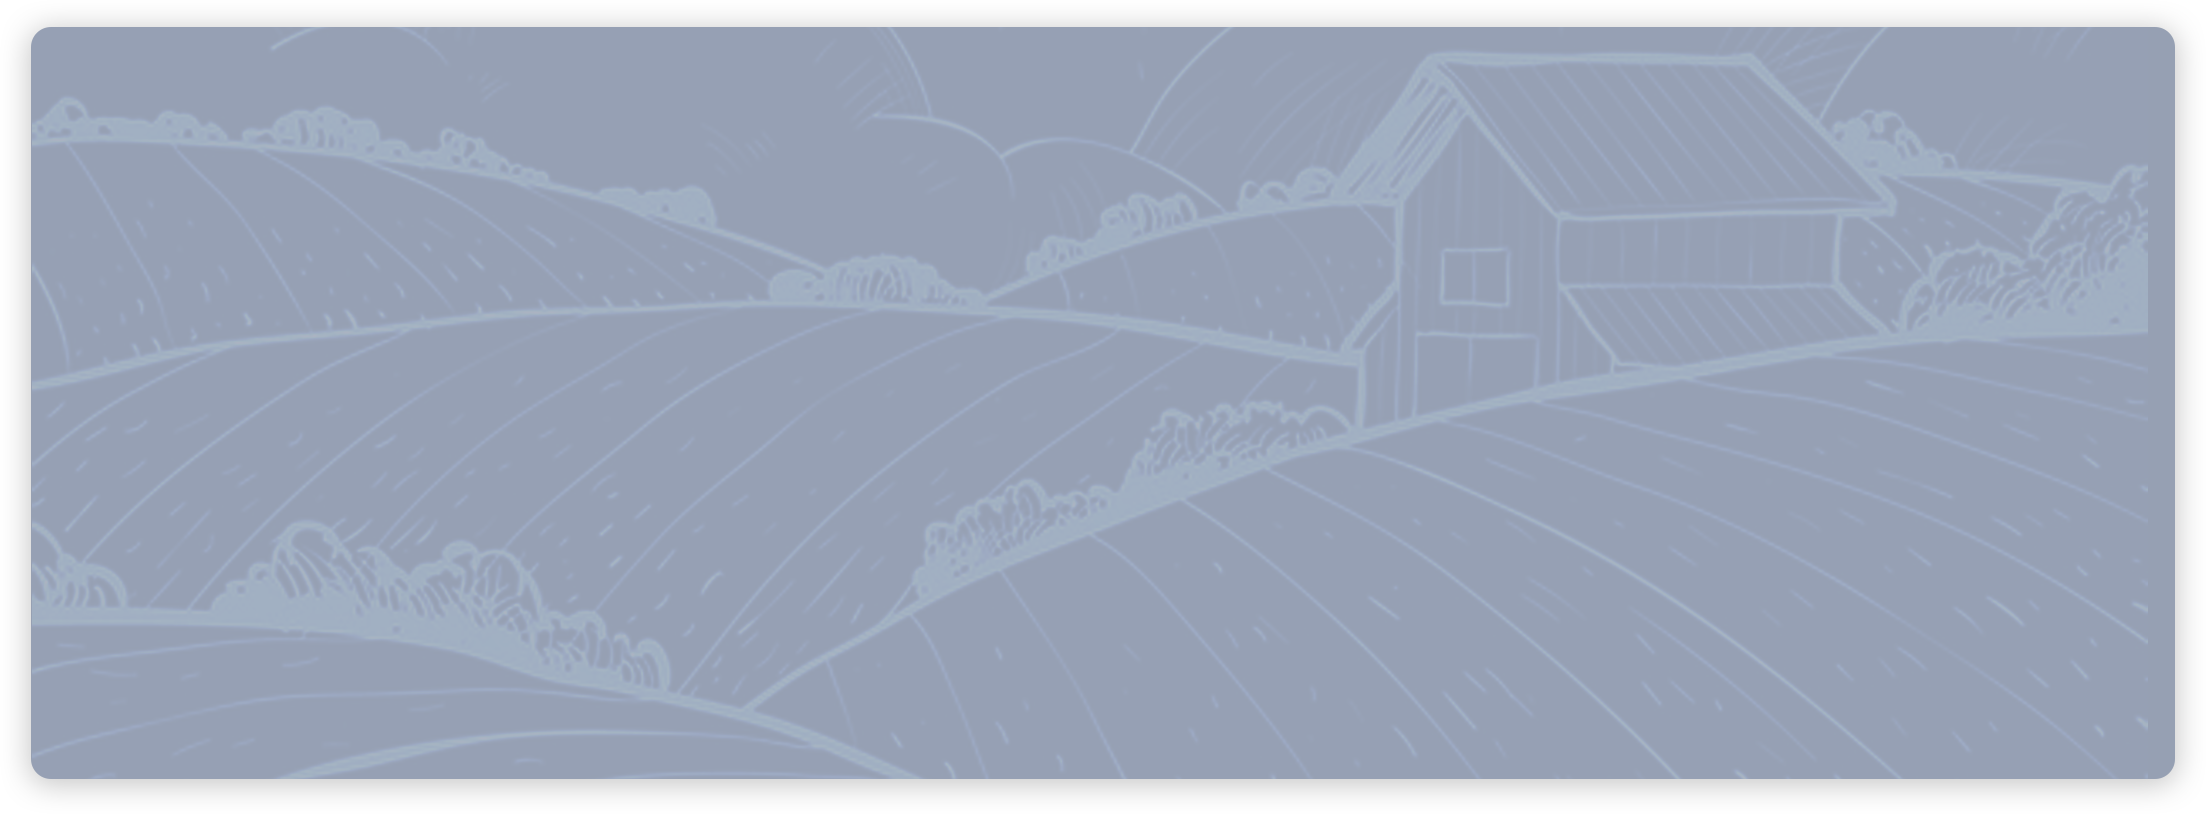
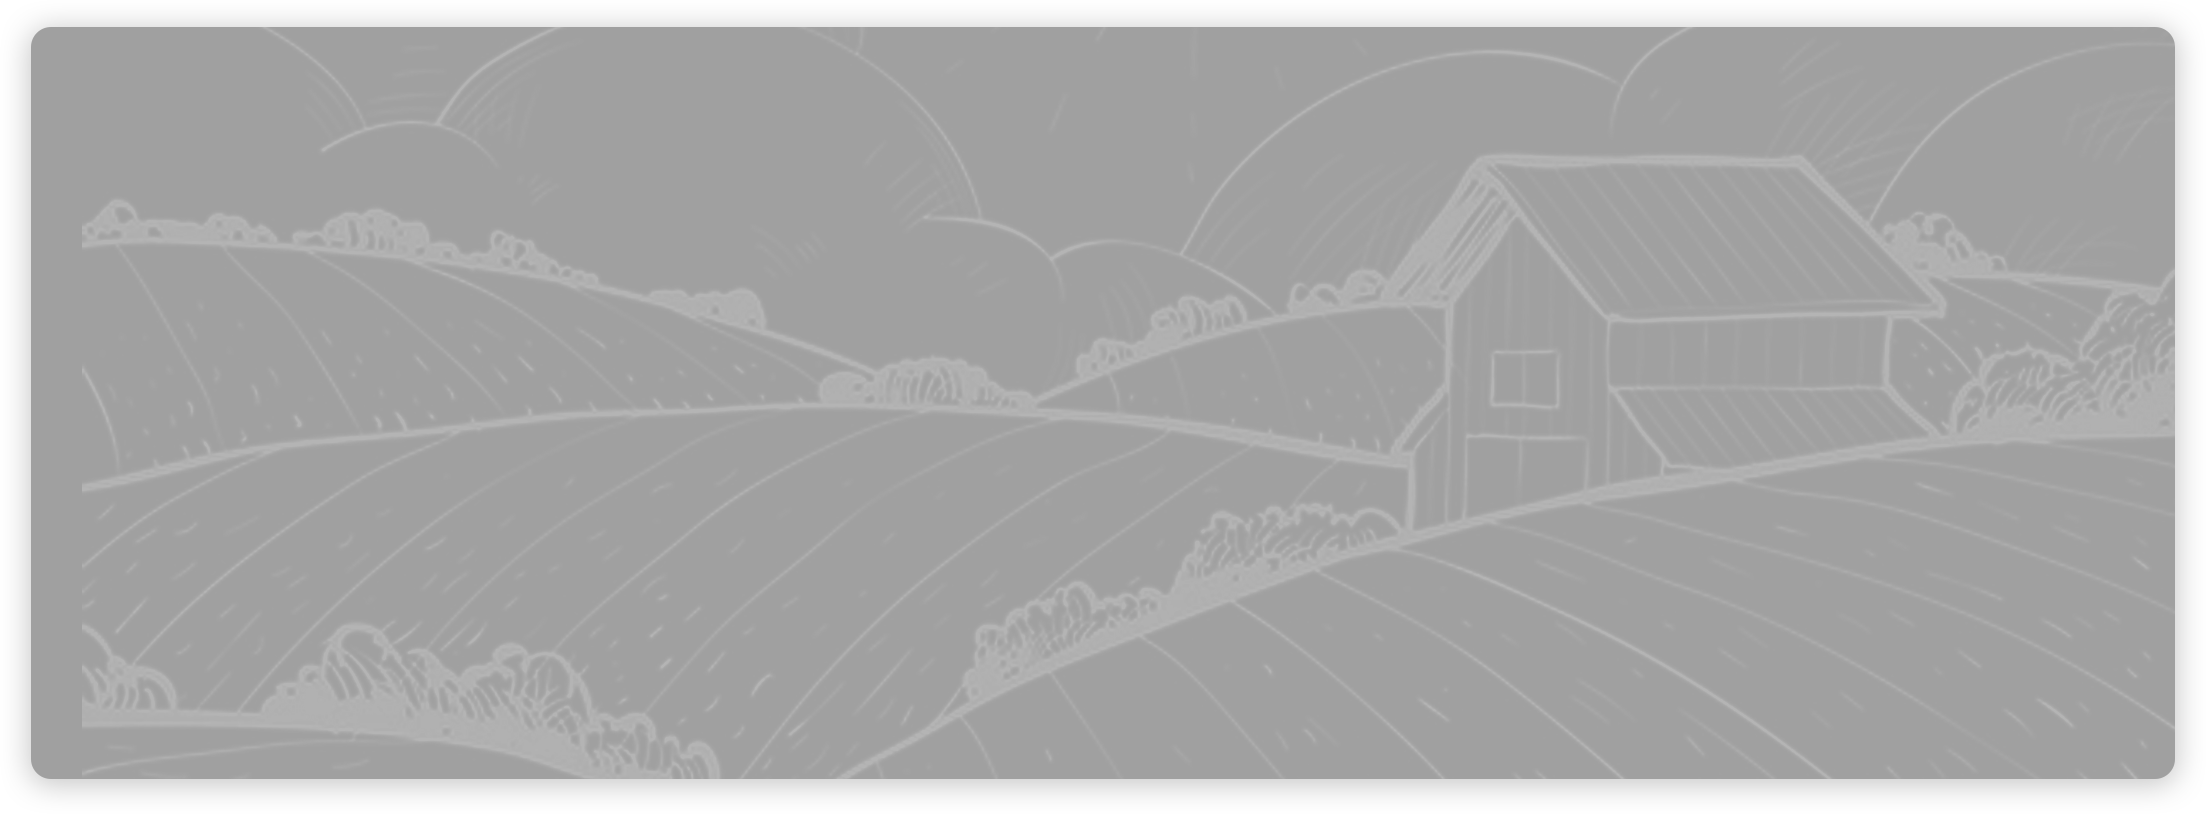
Cross

diff --git a/omni-dark/src/containers/DexHomeBody.js b/omni-dark/src/containers/DexHomeBody.js
@@ -24,6 +24,8 @@ import { ThemeContext } from "../theme/ThemeContext";
 import Button from '@mui/material/Button';
 import "react-responsive-carousel/lib/styles/carousel.min.css";
 
+import dotimg from "../assets/images/page1/dots-bg.png"
+
 const DexHomeBody = () => {
     const theme1 = useContext(ThemeContext);
     const darkMode = theme1.state.darkMode;
@@ -84,7 +86,7 @@ const DexHomeBody = () => {
                                     <Button variant="contained" className={darkMode ? 'launchBtn btn-md-lg d-flex' : 'launchBtnLight btn-md-lg d-flex'} endIcon={<LockIcon />}>Locked</Button>
                                 </div>
                                 <div>
-                                    <Button className={darkMode ? 'unlockbtn_gra btn-md-lg d-flex' : 'unlockbtn_graLight btn-md-lg d-flex'} endIcon={<ArrowRightAltIcon fontSize='30px'/>}>
+                                    <Button className={darkMode ? 'unlockbtn_gra btn-md-lg d-flex' : 'unlockbtn_graLight btn-md-lg d-flex'} endIcon={<ArrowRightAltIcon className='wallet_arrow' />}>
                                         Unlock Wallet                                        
                                     </Button>
                                 </div>
@@ -93,10 +95,10 @@ const DexHomeBody = () => {
                     </div>
                 </div>
                 <div className="col-md-12 mt-5">
-                    <img src={fadedCube} className="cubeImage2" />
-                    <div className={darkMode? 'rect3 d-flex flex-column justify-content-center justify-content-md-start py-5': 'rect3Light d-flex flex-column justify-content-center justify-content-md-start py-5'}>
-                        <div className="text-center text-md-left">
-                            <h2 className="cFont"><span className={darkMode?'color2':'color2Light'}>HOT</span> FARMS</h2>
+                    <img src={cube} className="cubeImage2" />
+                    <div className={darkMode? 'rect3 d-flex flex-column justify-content-center justify-content-md-start': 'rect3Light d-flex flex-column justify-content-center justify-content-md-start'}>
+                        <div className={darkMode ? 'color2 text-center text-md-left' : 'color2Light text-center text-md-left'}>
+                            <h2><span className={darkMode ?'cFont':'cFontLight'}>HOT</span> FARMS</h2>
                             <h6 className="">Vision is the ultimate exchange protocol</h6>
                         </div>
                         <div className="d-flex flex-column flex-md-row justify-content-start">
@@ -122,11 +124,11 @@ const DexHomeBody = () => {
                     </div>
                 </div>
                 <div className="col-md-12 mt-5 position-relative">
-                    <img src={cube} className="cubeImage1" />
+                    <img src={cube} className="cubeImage4" />
                     <div className={darkMode? 'rect4 d-flex flex-column justify-content-center justify-content-md-start py-5':'rect4Light d-flex flex-column justify-content-center justify-content-md-start py-5'}>
-                        <div className="text-center text-md-left">
-                            <h2 className="cFont"><span className={darkMode?'color2':'color2Light'}>COOL</span> FARMS</h2>
-                            <h6 className="">Vision is the ultimate exchange protocol</h6>
+                        <div className={darkMode ? 'color2 text-center text-md-left' : 'color2Light text-center text-md-left'}>
+                            <h2><span className={darkMode ? 'cFont' : 'cFontLight'}>COOL </span> POOLS</h2>
+                            <h6 className="">Vision is the ultimate exchange</h6>
                         </div>
                         <div className="d-flex flex-column flex-md-row justify-content-start">
                             <div className="d-flex justify-content-center justify-content-md-start bgDCB mr-md-2 pr-5">
@@ -178,30 +180,37 @@ const DexHomeBody = () => {
                     </div>
                 </div>
                 <div className="col-md-12 mt-4">
+
                     <div className={`d-flex flex-column justify-content-center align-items-center mt-4 py-md-4 ${darkMode?'rect5':'rect5Light'}`}>
                         <div>
-                            <h2 className="cFont mb-3 text-center text-md-left"><span className={darkMode?'color2':'color2Light'}>VISION EXCHANGE</span> STATS</h2>
+                            <h2 className={darkMode ? 'cFont mb-3 text-center text-md-left' :'cFontLight mb-3 text-center text-md-left'}><span className={darkMode?'color2':'color2Light'}>VISION EXCHANGE</span> STATS</h2>
                         </div>
                         <div className="d-flex flex-column">
                             <div className={darkMode?'rect5-item1':'rect5-item1Light'}>
                                 <span className="text-uppercase">Total Value Locked</span>
-                                <span>$ 454,543,34</span>
+                                <span>$ 454,252,717</span>
                             </div>
                             <div className={darkMode?'rect5-item2':'rect5-item2Light'}>
                                 <span className="text-uppercase">USD Market Cap</span>
-                                <span>$ 454,543,34</span>
+                                <span>$ 132,712,547</span>
                             </div>
                             <div className={darkMode?'rect5-item1':'rect5-item1Light'}>
                                 <span className="text-uppercase">Banana in circulation</span>
-                                <span>$ 454,543,34</span>
+                                <span>81,734,610</span>
                             </div>
                             <div className={darkMode?'rect5-item2':'rect5-item2Light'}>
+                                <span className="text-uppercase">Gnana in circulation</span>
+                                <span>12,669,166</span>
+                            </div>
+                            <div className={darkMode ? 'rect5-item1' : 'rect5-item1Light'}>
                                 <span className="text-uppercase">Total Banana Burned</span>
-                                <span>$ 454,543,34</span>
+                                <span>15,504,256</span>
                             </div>
                         </div>
                     </div>
+                    <img src={dotimg} className="dot_img" />
                 </div>
+                
                 <div className="col-md-12 p-0">
                     <div className="newsLetter">
                         <div>

diff --git a/omni-dark/src/assets/styles/page1.css b/omni-dark/src/assets/styles/page1.css
@@ -122,14 +122,20 @@ a {
     background: linear-gradient(to left, #393939 0%, #8a8a8a 100%) !important;
     color:white !important;
     font-size: 16pt !important;
-    padding: 0.8rem 2rem !important;
+    padding: 0.5rem 2rem !important;
 }
+
+.wallet_arrow {
+    font-size: 30px !important;
+}
+
 .rect2{
     background-image: url(../images/page1/farming-bg.png);
+    background-color: #3535357e;
     background-position: center;
     background-size: cover;
-    border-radius: 24px;
-    padding: 80px 0;
+    border-radius: 1.5rem;
+    padding: 5rem 0;
     
 }
 .rect2Light{
@@ -137,42 +143,43 @@ a {
     background-position: center;
     background-size: cover;
     background-color: rgb(222,223,225,.9);
-    border-radius: 24px;
+    border-radius: 1.5rem;
 }
 .bgDCB{
-    background-color: rgba(42, 66, 110, 0.4);
+    background-color: #c2c2c21a;
     padding:.5rem;
+    border-radius: 0.625rem;
 }
 .rect3{
-    background-color: #23355780;
+    background-color: #3535356e;
     background-image: url(../images/page1/hot-farm-bg.png);
     background-position: center;
     background-size: auto;
-    border-radius: 24px;
+    border-radius: 1.5rem;
     
-    padding: 2rem 2rem;
+    padding: 3rem 3rem;
     position: relative;
     z-index: 10;
 }
 .rect3Light{
-    background-color: #23355780;
+    background-color: #dadada;
     background-image: url(../images/page1/hot-farm-bg-light.png);
     background-position: center;
     background-size: auto;
-    border-radius: 24px;
+    border-radius: 1.5rem;
     background-color: rgb(222,223,225,.9);
-    padding: 2rem 2rem;
+    padding: 3rem 3rem;
     position: relative;
     z-index: 10;
 }
 .rect4{
-    background-color: rgba(19, 34, 62, 0.4);
+    background-color: #35353560;
     background-image: url(../images/page1/cool-pools-bg.png);
     background-position: center;
     background-size: cover;
     border-radius: 24px;
     
-    padding: 2rem 2rem;
+    padding: 3rem 3rem;
     position: relative;
     z-index: 10;
 }
@@ -183,60 +190,65 @@ a {
     background-size: cover;
     border-radius: 24px;
     
-    padding: 2rem 2rem;
+    padding: 3rem 3rem;
     position: relative;
     z-index: 10;
 }
 .rect5{
-    background-color: #13223e;
-    background-image: url(../images/page1/dots-bg.png);
+    background-color: #222222;
     background-position: center;
     background-size: cover;
     border-radius: 24px;
-    
     padding: 2rem 1rem;
     position: relative;
     z-index: 10;
 }
 .rect5Light{
-    background-color: #e9eaea;
-    background-image: url(../images/page1/dots-bg.png);
+    background-color: #dadada;
     background-position: center;
     background-size: cover;
     border-radius: 24px;
-    
     padding: 2rem 1rem;
     position: relative;
     z-index: 10;
 }
 .rect5-item1{
     width: 100%;
-    background-color: #172847;
+    background-color: #282828;
     padding:1rem 1rem;
     display: flex;
     justify-content: space-between;
 }
 .rect5-item1Light{
     width: 100%;
-    background-color: #d0e6f5;
+    background-color: #d2d2d2;
     padding:1rem 1rem;
     display: flex;
     justify-content: space-between;
 }
 .rect5-item2{
-    background-color:#0f1d38;
+    background-color:#1d1d1d;
     padding:1rem 1rem;
     width: 100%;
     justify-content: space-between;
     display: flex;
 }
 .rect5-item2Light{
-    background-color:#afc9e0;
+    background-color:#b5b5b5;
     padding:1rem 2rem;
     width: 100%;
     justify-content: space-between;
     display: flex;
 }
+
+.dot_img {
+    position: absolute;
+    right:0px;
+    top: -10rem;
+    z-index: 15;
+    width: 40rem;
+}
+
 .newsLetter{
     background: linear-gradient(to right, #2fabe6, #07528f);
     display: flex;
@@ -379,7 +391,7 @@ a {
     bottom:40px;
     left:-20px;
     z-index: 3;
-    width: 80px;
+    width: 5rem;
 }
 .cubeImage1{
     z-index: 3;
@@ -392,6 +404,13 @@ a {
     left:0px;
     z-index: 3;
     width: 2.5rem;
+}
+.cubeImage4{
+    position: absolute;
+    bottom:-10px;
+    right:0px;
+    z-index: 3;
+    width: 5rem;
 }
 
 .rightImg{
